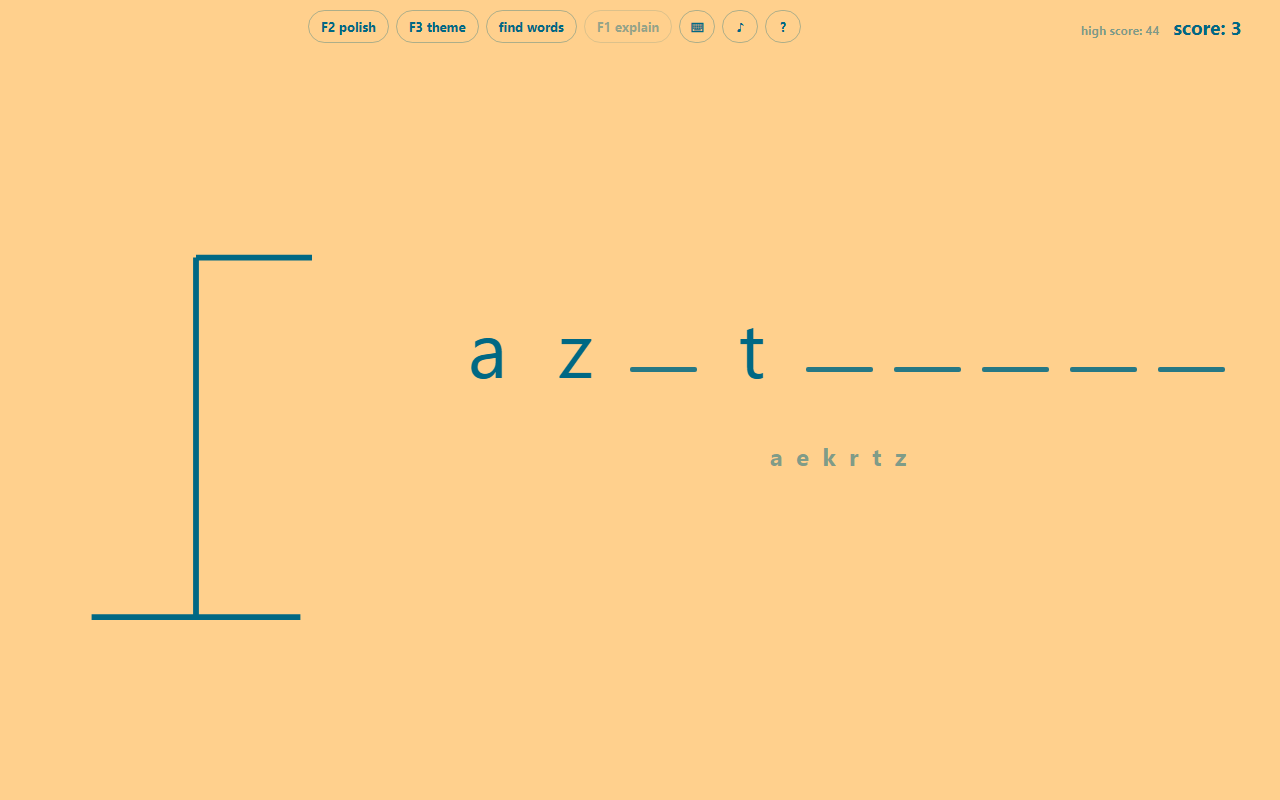
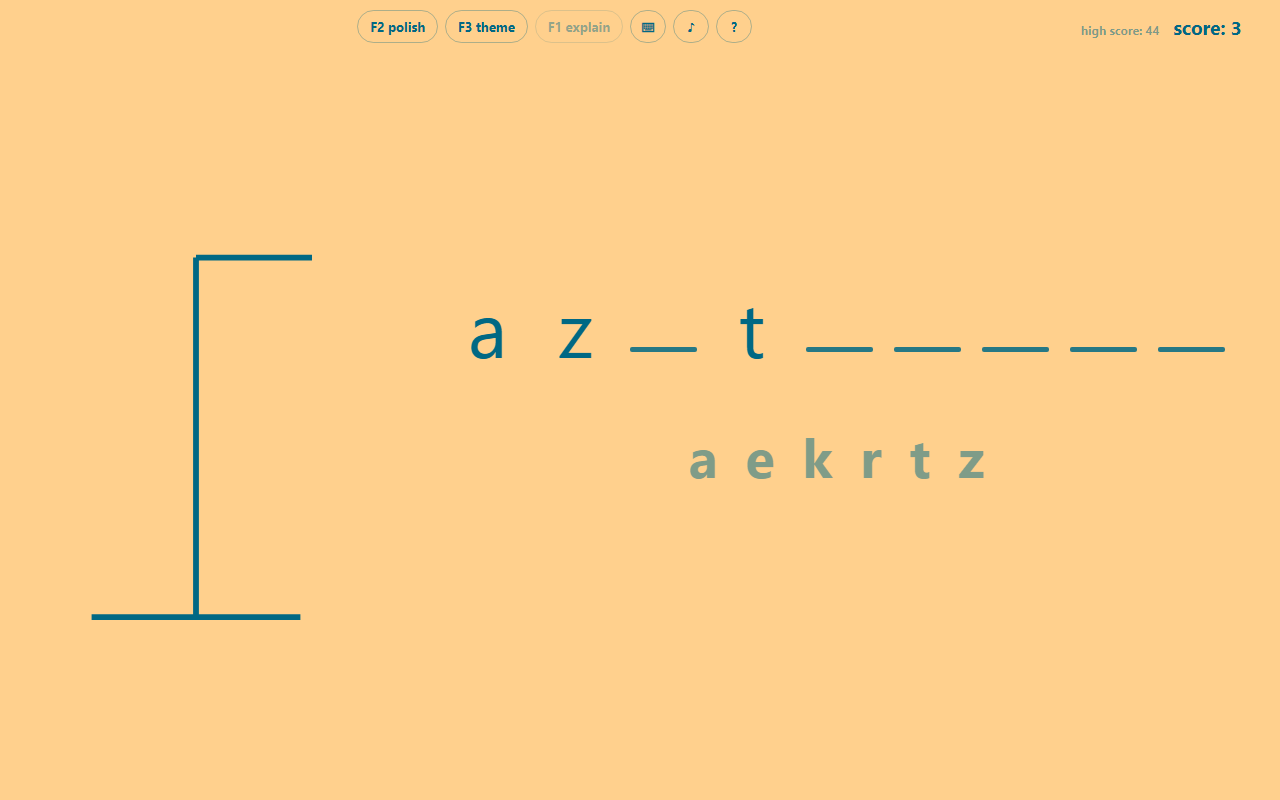
Used letters sized with the word; the find words button is gone
- the record of the letters you tried is no longer a fixed small line: it is
  calc(var(--letter-size) * 0.7) over a 16px floor, so it is 53px beside a 76px word
  and 59px beside an 85px one. The sizing variables moved from #word to #play so the
  line can inherit them, which is also what the source game does (tried_letters at
  60pt against a word of 80pt)
- no find words button: F10 opens the word finder and the Keys panel documents it, so
  the top bar holds language, theme, explain and the three icon toggles. On a phone
  that row now fits in one line instead of wrapping to two
- the checks that guarded the old wording guard the new one: the used-letters size is
  derived from the word size, and there is no btn-find in the page or the app

diff --git a/styles.css b/styles.css
@@ -139,16 +139,26 @@ body {
   align-items: center;
   justify-content: center;
   gap: clamp(10px, 2.4vh, 26px);
+  /* the starting sizes, until fitWord() in hangman-view.js writes the real ones on
+     this same element; they live on the play area because the word row and the
+     record of used letters are both drawn from them */
+  --cell: 40px;
+  --letter-size: 34px;
+  --underline-h: 2px;
 }
 
+.word {
+  display: flex;
+  justify-content: center;
+  gap: 0;
+  flex-wrap: nowrap;
+  max-width: 100%;
+}
 /* The word is the point of the page: fitWord() in hangman-view.js sizes these
    cells to the space the page has, for the word actually on the board — a short
    word gets big letters, a long one smaller ones, up to the same ceiling. The
    size only changes when a new word is drawn, never while you are guessing it. */
 .word {
-  --cell: 40px;
-  --letter-size: 34px;
-  --underline-h: 2px;
   display: flex;
   justify-content: center;
   gap: 0;
@@ -211,18 +221,18 @@ body {
 }
 
 /* -------------------------------------------------------- tried letters, text */
-/* secondary to the word in play, but still comfortably readable: this is the record
-   of the letters used when there is no on-screen keyboard to read them from, and the
-   source game draws them at a size close to the word's own. It sits clearly below the
-   word, because that is the thing you are looking at. */
+/* secondary to the word in play, but sized against it rather than made small in
+   absolute terms: the source game draws these at 60 pt beside a word of 80 pt, and a
+   line of tiny grey letters is unreadable however much room the page has. It sits
+   clearly below the word, because that is the thing you are looking at. */
 
 .tried {
   min-height: 1.2em;
   max-width: 100%;
   margin-top: clamp(14px, 4.5vh, 48px);
   text-align: center;
-  font-size: clamp(16px, 2.6vw, 24px);
-  letter-spacing: 0.14em;
+  font-size: max(16px, calc(var(--letter-size) * 0.7));
+  letter-spacing: 0.12em;
   color: var(--faint);
   word-break: break-all;
 }

diff --git a/js/hangman-view.js b/js/hangman-view.js
@@ -224,10 +224,15 @@
       // its bars: that keeps the gaps along the row constant whatever is drawn
       const room = pitch - Math.max(4, Math.round(pitch * 0.18));
       const size = Math.max(11, Math.min(Math.round(pitch * 1.16), Math.floor(room / measureWidest())));
-      host.style.setProperty("--cell", pitch + "px");
-      host.style.setProperty("--letter-size", size + "px");
+      // the sizes go on the play area rather than the word row: the record of the
+      // letters you tried sits beside the word and is drawn at a fraction of its size,
+      // as in the source game (tried_letters at 60pt against the word's 80pt), so it
+      // has to inherit them
+      const styles = area || host;
+      styles.style.setProperty("--cell", pitch + "px");
+      styles.style.setProperty("--letter-size", size + "px");
       // the bar is a fraction of the letter, as the source game's "_" is
-      host.style.setProperty("--underline-h", Math.max(2, Math.round(size * 0.07)) + "px");
+      styles.style.setProperty("--underline-h", Math.max(2, Math.round(size * 0.07)) + "px");
     }
 
     function renderWord(snapshot) {

diff --git a/index.html b/index.html
@@ -21,7 +21,6 @@
         <div class="controls">
           <button class="chip" id="btn-language" title="F2 — switch dictionary">F2&nbsp;&nbsp;english</button>
           <button class="chip" id="btn-theme" title="F3 — next palette (13 of them)">F3 theme</button>
-          <button class="chip" id="btn-find" title="how many dictionary words still fit this pattern">find words</button>
           <button class="chip" id="btn-explain" title="F1 — explain the word" disabled>F1 explain</button>
           <button class="chip icon" id="btn-kbd" title="on-screen keyboard: auto">⌨</button>
           <button class="chip icon icon-note" id="btn-sound" title="sound: on">♪</button>

diff --git a/js/hangman-app.js b/js/hangman-app.js
@@ -125,7 +125,6 @@
     keyboardView.apply(snapshot);
     const explain = get("btn-explain");
     explain.disabled = !snapshot.gameOver;
-    get("btn-find").disabled = snapshot.word.length === 0;
     return snapshot;
   }
 
@@ -366,7 +365,6 @@
 
     get("btn-language").addEventListener("click", toggleLanguage);
     get("btn-theme").addEventListener("click", cycleTheme);
-    get("btn-find").addEventListener("click", possibleWords);
     get("btn-explain").addEventListener("click", explainWord);
     get("btn-help").addEventListener("click", () => (get("panel").hidden ? openPanel("help") : closePanel()));
     get("btn-kbd").addEventListener("click", () => {

diff --git a/README.md b/README.md
@@ -50,16 +50,17 @@ There is no build step and no server is required.
 
 ## what is deliberately different
 
-- **The layout is not the pygame window's.** Every control — language, theme, word finder,
-  explain, and the keyboard / sound / help toggles — is in one row along the top, with the
-  score and the high score at its right end; the word finder's F10 hotkey is not printed
-  on its button, it is only listed in the Keys panel. On a phone the same controls are
-  sized for a thumb: the icon buttons are 46 px squares with 21 px glyphs, and the music
-  note is set at 30 px because that pictogram is far sparser than the keyboard one and
-  only reads at the same size that way. The word being
+- **The layout is not the pygame window's.** The controls that are on screen — language,
+  theme, explain, and the keyboard / sound / help toggles — are in one row along the top,
+  with the score and the high score at its right end. The word finder has no button: F10
+  opens it, and the Keys panel is where that is written down. On a phone the same controls
+  are sized for a thumb: the icon buttons are 46 px squares with 21 px glyphs, and the
+  music note is set at 30 px because that pictogram is far sparser than the keyboard one
+  and only reads at the same size that way. The word being
   guessed is the largest element at every screen size; the gallows and the record of the
-  letters already tried are drawn around it, smaller than the word but still large enough
-  to read from across a table.
+  letters already tried are drawn around it — the used letters at seven tenths of the size
+  of the word they belong to, close to the source game's 60 pt against 80 pt, so they read
+  instead of being a grey whisper.
 - **The word takes the room it is given.** The slot pitch is the width of the play area
   divided by the number of letters in the word on the board, limited by a share of the
   screen height and by 110 px; the letter size is then measured against the widest glyph
@@ -85,8 +86,11 @@ There is no build step and no server is required.
 - **The on-screen keyboard sits at the bottom and replaces the "letters you tried"
   line** while it is shown — it already shows every letter used, greyed the same way
   whether it was in the word or not. With a physical keyboard in play that line stays,
-  and it is set to be read: 24 px letters at a normal weight, with a clear gap under the
-  word row (measured 49 px at 1280 × 800) rather than crowded against it.
+  and it is sized against the word it belongs to rather than fixed small: seven tenths of
+  that word's letter size, over a 16 px floor — `calc(var(--letter-size) * 0.7)` — the
+  same derivation the source game uses, its `tried_letters` at 60 pt against a word of
+  80 pt. Measured: 53 px beside a 76 px word at 1280 × 800, 59 px beside an 85 px one at
+  1920 × 1080, with a clear gap under the word row (49 px) rather than a crowding of it.
   Asked for on a desktop, the keyboard is sized for a hand, not a thumbnail: keys about
   98 × 57 px (up to 68 px tall on a tall window, never below 52 px on a short one) with
   24 px letters at a normal weight — a bold letter on a key is noise, not a letter you
@@ -102,7 +106,8 @@ There is no build step and no server is required.
 - `saved.txt`, the preferences and the history live in `localStorage`
   (`hangman.saved.v1`, `hangman.prefs.v1`, `hangman.history.v1`) with the same fields
   and written at the same moments.
-- **F10 searches the dictionary you are actually playing.** The desktop `find_words()`
+- **F10 — F10 alone, with no button for it — searches the dictionary you are actually
+  playing.** The desktop `find_words()`
   hard-codes `pruned_polish.txt` whatever language is selected; that reads as a bug, and
   the port does not reproduce it.
 - Esc does nothing at all; there is nothing to quit, and the game is in storage anyway.
@@ -119,7 +124,8 @@ and the interface rules above (one used-letter state, the keyboard replacing the
 list, no restart control, all controls and the score in the top bar, the word sized to
 the space it is given and measured against the widest glyph, a filled slot drawing no
 bar, the two beeps swapped, touch-sized controls and a touch-sized Continue button, an
-end-of-word message that mentions no keys on a touch device, no F10 printed on a button,
+end-of-word message that mentions no keys on a touch device, the word finder having no
+button and being F10 only,
 the sound chip carrying the same on-state as the keyboard chip, a desktop keyboard sized
 for a hand with its letters at a normal weight, a drawing sized by the room the page has
 rather than one made smaller for the keyboard, a used-letters line large enough to read
@@ -147,8 +153,11 @@ keyboard while it is shown. What has to hold:
   desktop's keys about 98 px wide at a normal letter weight, so even a 620 px-tall window
   holds the whole page;
 - the drawing measuring the same for `_qa_mid.html` and `_qa_kbd.html` at 1920 × 1080
-  (312 × 520 both) and giving way only when the window is too short for both; the used
-  letters reading 24 px and sitting some 50 px clear of the word row.
+  (312 × 520 both) and giving way only when the window is too short for both;
+- the used letters measuring 0.7 of the letter size of the word in play (53 px beside a
+  76 px word at 1280 × 800) and sitting some 50 px clear of the word row;
+- the `controls` list coming back with six chips — language, theme, explain and the three
+  icon toggles — the word finder not among them, because it has no button.
 
 ### screenshots
 
